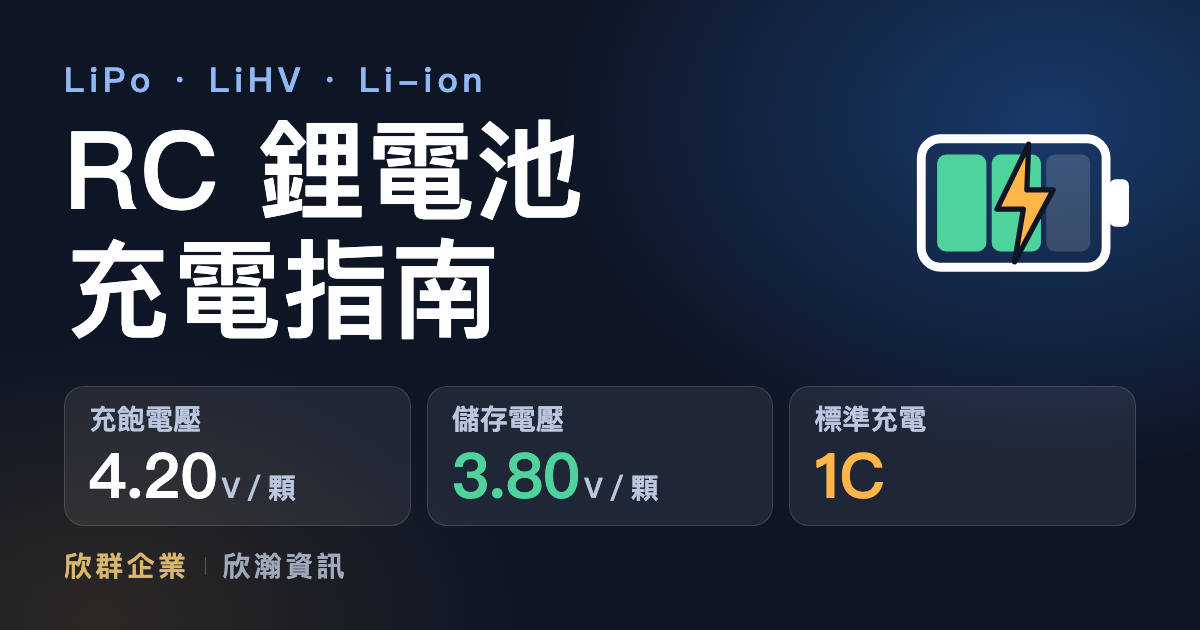
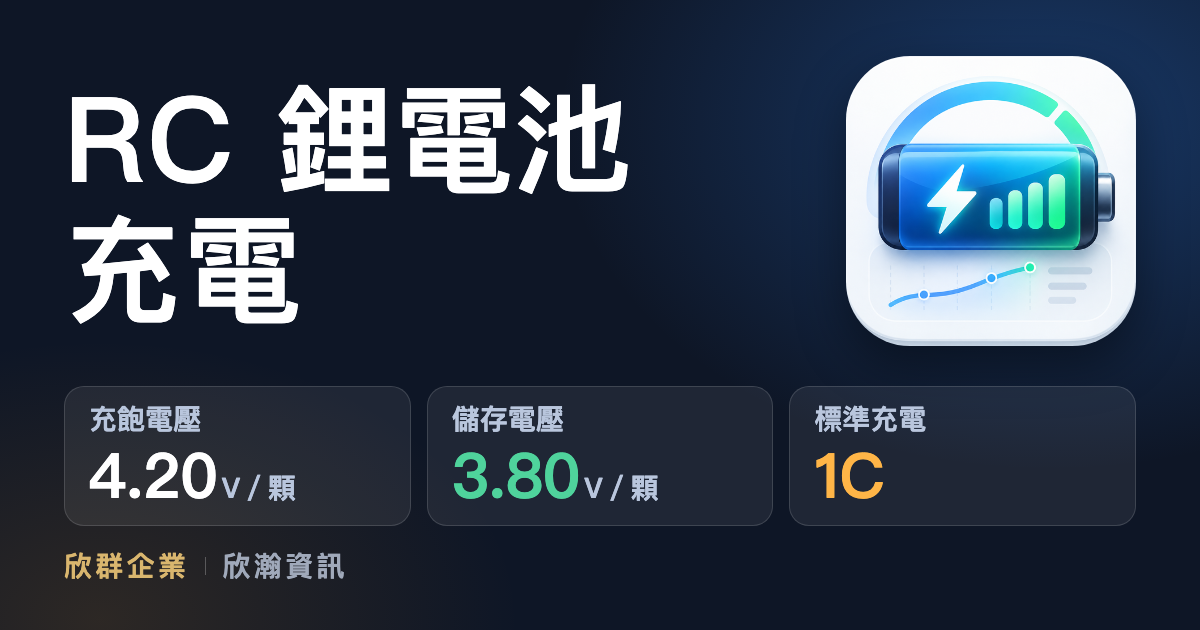
標題改為「RC 鋰電池充電」、拿掉副標；LINE 預覽圖換成新圖示

Changed region(s): [[0.0308, 0.0905, 0.5242, 0.5429], [0.6783, 0.0905, 0.9558, 0.573]]

diff --git a/index.html b/index.html
@@ -3,18 +3,18 @@
 <head>
 <meta charset="utf-8">
 <meta name="viewport" content="width=device-width, initial-scale=1, viewport-fit=cover">
-<title>RC 鋰電池充電指南</title>
+<title>RC 鋰電池充電</title>
 <meta name="description" content="LiPo／LiHV／Li-ion 電池電壓、充電電流、放電功率計算與保養知識。">
-<meta property="og:title" content="RC 鋰電池充電指南">
+<meta property="og:title" content="RC 鋰電池充電">
 <meta property="og:description" content="LiPo／LiHV／Li-ion 電池電壓、充電電流、放電功率計算與保養知識。">
 <!-- 分享預覽圖：og.png 由 og-source.html 以 headless Chrome 1200×630 截圖產生；改圖後把 ?v= 加一，LINE 才會換新圖 -->
 <meta property="og:type" content="website">
 <meta property="og:site_name" content="欣瀚資訊">
 <meta property="og:url" content="https://linpoyes.github.io/lipo-guide/">
-<meta property="og:image" content="https://linpoyes.github.io/lipo-guide/og.png?v=2">
+<meta property="og:image" content="https://linpoyes.github.io/lipo-guide/og.png?v=3">
 <meta property="og:image:width" content="1200">
 <meta property="og:image:height" content="630">
-<meta property="og:image:alt" content="RC 鋰電池充電指南">
+<meta property="og:image:alt" content="RC 鋰電池充電">
 <meta name="twitter:card" content="summary_large_image">
 <meta name="theme-color" content="#F4F7FC" media="(prefers-color-scheme: light)">
 <meta name="theme-color" content="#0E1626" media="(prefers-color-scheme: dark)">
@@ -22,7 +22,7 @@
 <link rel="icon" type="image/png" href="favicon.png?v=1">
 <link rel="apple-touch-icon" href="apple-touch-icon.png?v=1">
 <link rel="manifest" href="manifest.webmanifest">
-<meta name="apple-mobile-web-app-title" content="鋰電池指南">
+<meta name="apple-mobile-web-app-title" content="鋰電池充電">
 <style>
 /* 色票沿用欣群／欣瀚家族（門市報表 components/ui.jsx 的 C）。
    識讀優先：次要文字對比度拉到 WCAG AA 以上，數字一律等寬。 */
@@ -186,8 +186,7 @@ footer i{display:inline-block;width:1px;height:12px;background:var(--line);margi
 <body>
 <div class="wrap">
 <header>
-  <h1>RC 鋰電池充電指南</h1>
-  <div class="sub">LiPo · LiHV · Li-ion</div>
+  <h1>RC 鋰電池充電</h1>
 </header>
 
 <nav id="nav">

diff --git a/og-source.html b/og-source.html
@@ -9,8 +9,10 @@ body{width:1200px;height:630px;overflow:hidden;background:#0E1626;color:#fff;
 .wrap{position:relative;height:100%;padding:56px 64px 44px;display:flex;flex-direction:column}
 .top{display:flex;align-items:center;gap:40px}
 .txt{flex:1}
+/* 新圖示：取中間卡片，圓角裁掉原圖四角的陰影 */
+.icon{width:290px;height:290px;border-radius:64px;box-shadow:0 18px 50px rgba(0,0,0,.45)}
 .kick{font-size:34px;font-weight:700;color:#8FB8F5;letter-spacing:.14em}
-h1{font-size:108px;font-weight:900;line-height:1.1;margin-top:8px;letter-spacing:.01em}
+h1{font-size:118px;font-weight:900;line-height:1.1;margin-top:8px;letter-spacing:.01em}
 .stats{display:flex;gap:16px;margin-top:auto}
 .st{flex:1;background:rgba(255,255,255,.07);border:1px solid rgba(255,255,255,.14);border-radius:20px;padding:12px 24px}
 .st .k{font-size:28px;color:#B9C6DD;font-weight:600}
@@ -24,17 +26,9 @@ h1{font-size:108px;font-weight:900;line-height:1.1;margin-top:8px;letter-spacing
 <div class="wrap">
   <div class="top">
     <div class="txt">
-      <div class="kick">LiPo · LiHV · Li-ion</div>
-      <h1>RC 鋰電池<br>充電指南</h1>
+      <h1>RC 鋰電池<br>充電</h1>
     </div>
-    <svg width="220" height="150" viewBox="0 0 250 170">
-      <rect x="6" y="12" width="210" height="146" rx="22" fill="none" stroke="#fff" stroke-width="10"/>
-      <rect x="220" y="58" width="22" height="54" rx="7" fill="#fff"/>
-      <rect x="24" y="30" width="56" height="110" rx="10" fill="#4FD39C"/>
-      <rect x="86" y="30" width="56" height="110" rx="10" fill="#4FD39C"/>
-      <rect x="148" y="30" width="50" height="110" rx="10" fill="rgba(255,255,255,.16)"/>
-      <path d="M128 18 L92 92 h30 l-10 60 l44 -82 h-30 z" fill="#FFB547" stroke="#0E1626" stroke-width="6" stroke-linejoin="round"/>
-    </svg>
+    <img class="icon" src="icon-512.png" alt="">
   </div>
   <div class="stats">
     <div class="st"><div class="k">充飽電壓</div><div class="v">4.20<small>V／顆</small></div></div>
